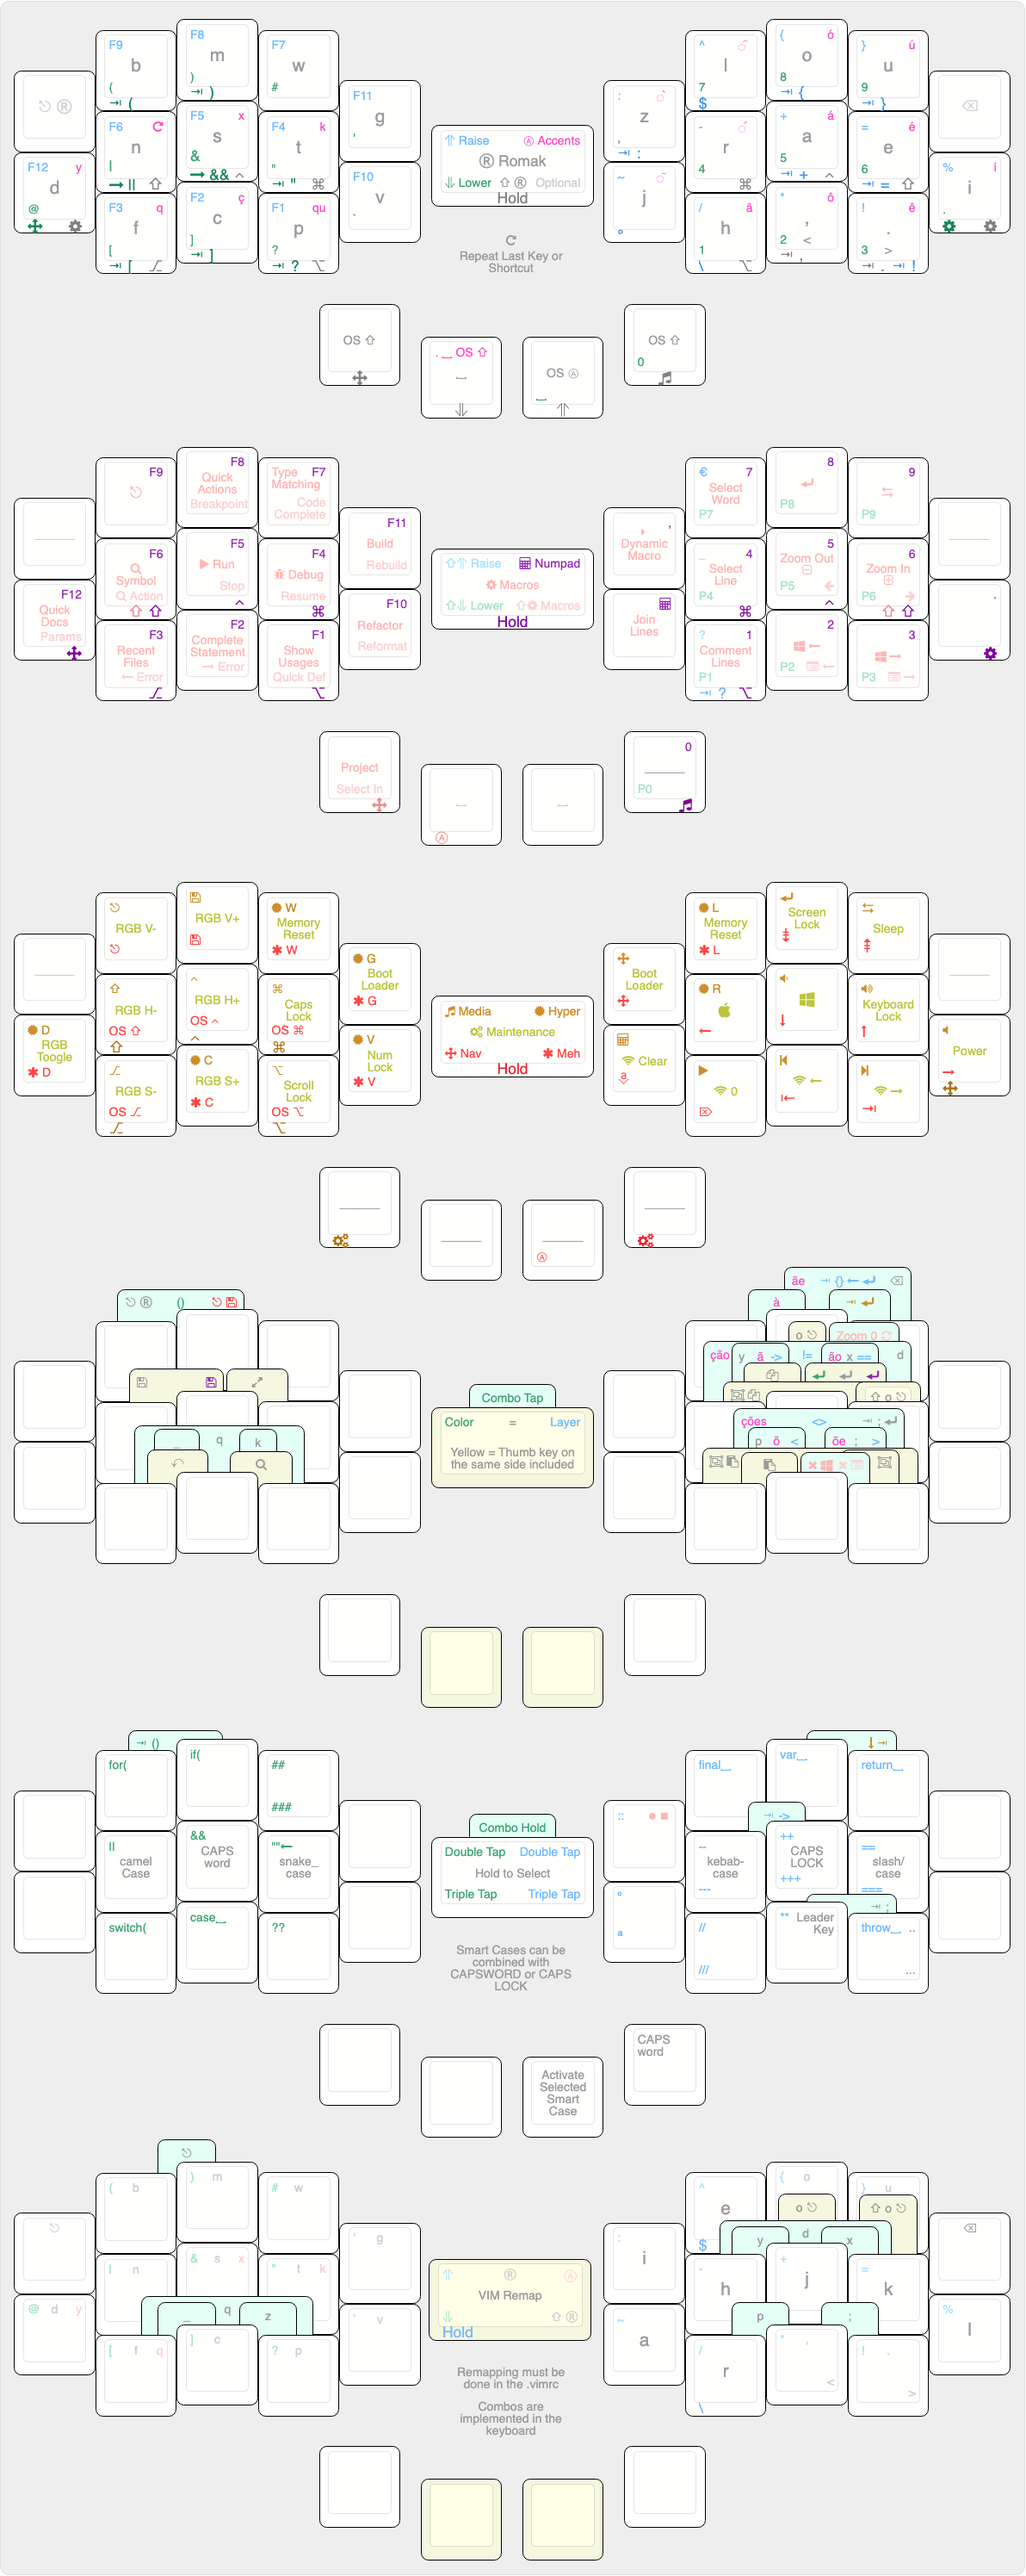
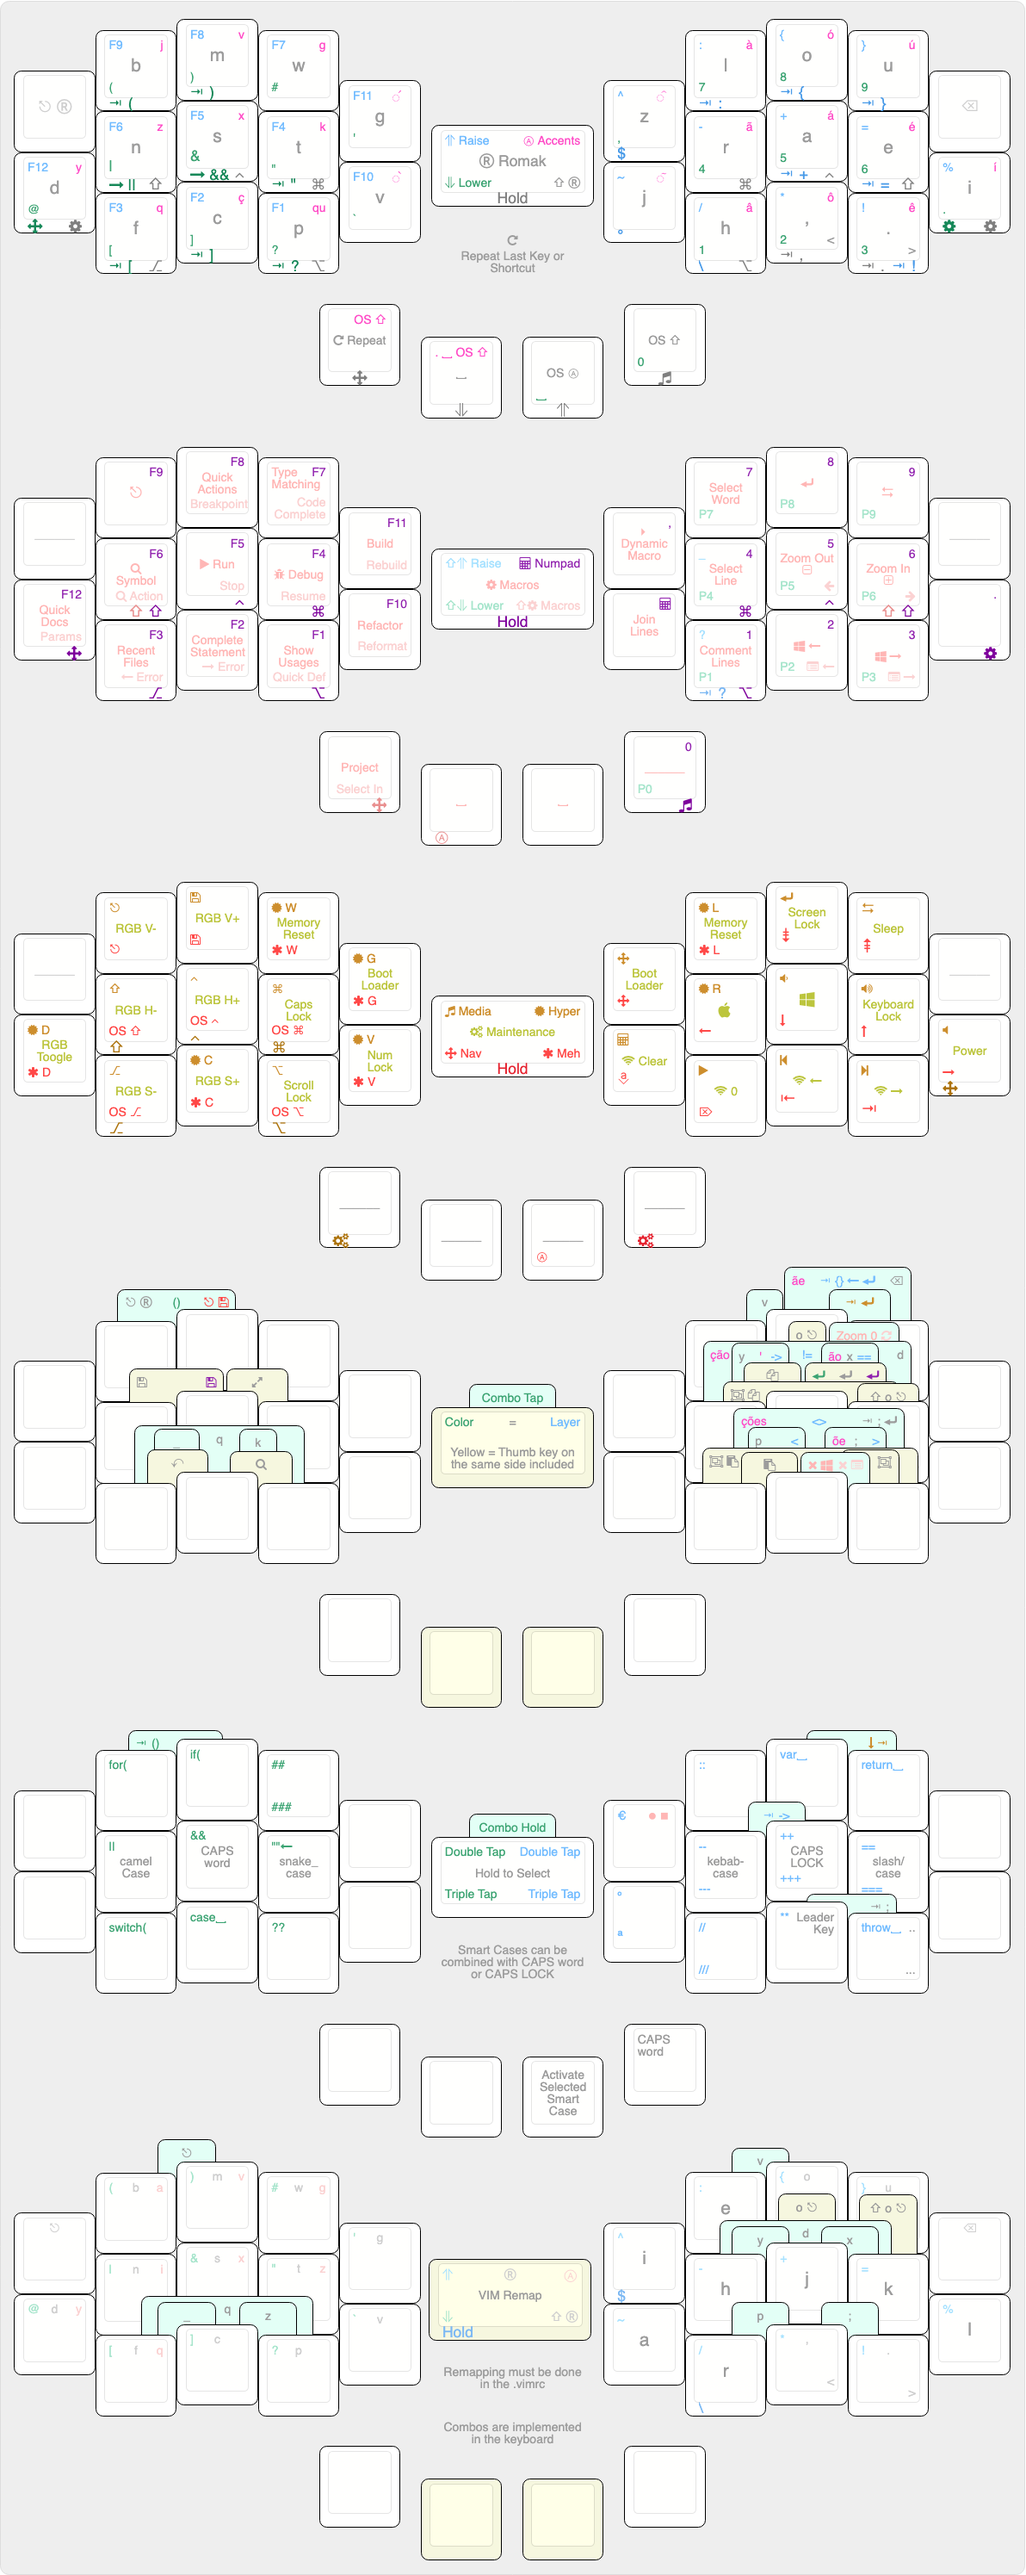
replicate central column letters in the accents layer and move repeat key to the thumb

diff --git a/src/qmk/users/rafaelromao/features/combos.c b/src/qmk/users/rafaelromao/features/combos.c
@@ -37,14 +37,12 @@ const uint16_t PROGMEM r_med_ent_combo[] = {KC_ENT, KC_TAB, COMBO_END};
 
 // Accents
 
-const uint16_t PROGMEM l_acc_esc_combo[]  = {KC_B, KC_X, COMBO_END};
-const uint16_t PROGMEM r_acc_agrv_combo[] = {KC_CIRC, MC_SQ_O, COMBO_END};
-const uint16_t PROGMEM r_acc_atil_combo[] = {KC_QUOT, MC_SQ_A, COMBO_END};
-const uint16_t PROGMEM r_acc_otil_combo[] = {MC_CR_A, MC_CR_O, COMBO_END};
+const uint16_t PROGMEM l_acc_esc_combo[]  = {KC_J, KC_V, COMBO_END};
+const uint16_t PROGMEM r_acc_squo_combo[] = {MC_TL_A, MC_SQ_A, COMBO_END};
 const uint16_t PROGMEM r_acc_ae_combo[]   = {MC_SQ_O, MC_SQ_U, COMBO_END};
 const uint16_t PROGMEM r_acc_ao_combo[]   = {MC_SQ_A, MC_SQ_E, COMBO_END};
 const uint16_t PROGMEM r_acc_oe_combo[]   = {MC_CR_O, MC_CR_E, COMBO_END};
-const uint16_t PROGMEM r_acc_cao_combo[]  = {KC_QUOT, MC_SQ_A, MC_SQ_E, COMBO_END};
+const uint16_t PROGMEM r_acc_cao_combo[]  = {MC_TL_A, MC_SQ_A, MC_SQ_E, COMBO_END};
 const uint16_t PROGMEM r_acc_coes_combo[] = {MC_CR_A, MC_CR_O, MC_CR_E, COMBO_END};
 const uint16_t PROGMEM r_acc_bsp_combo[]  = {MC_SQ_O, MC_SQ_U, COMBO_END};
 
@@ -64,6 +62,7 @@ const uint16_t PROGMEM l_rom_usc_combo[] = {RALTT_F, KC_C, COMBO_END};
 const uint16_t PROGMEM l_rom_ful_combo[] = {LOW_SPC, LCTLT_S, LGUIT_T, COMBO_END};
 const uint16_t PROGMEM l_rom_fin_combo[] = {LOW_SPC, KC_C, LALTT_P, COMBO_END};
 
+const uint16_t PROGMEM r_rom_v_combo[]   = {KC_L, KC_O, COMBO_END};
 const uint16_t PROGMEM r_rom_y_combo[]   = {RGUIT_R, RCTLT_A, COMBO_END};
 const uint16_t PROGMEM r_rom_p_combo[]   = {LALTT_H, TD_COMM, COMBO_END};
 const uint16_t PROGMEM r_rom_x_combo[]   = {RCTLT_A, RSFTT_E, COMBO_END};
@@ -85,21 +84,21 @@ const uint16_t PROGMEM r_rom_sce_combo[] = {LALTT_H, TD_COMM, TD_DOT, COMBO_END}
 const uint16_t PROGMEM secret_1_combo[] = {SEC_1, SEC_2, SEC_3, SEC_4, COMBO_END};
 
 combo_t key_combos[COMBO_COUNT] = {
-    COMBO(l_rom_q_combo, KC_Q),       COMBO(r_rom_y_combo, KC_Y),       COMBO(l_rom_k_combo, KC_K),
-    COMBO(r_rom_d_combo, KC_D),       COMBO(r_rom_x_combo, KC_X),       COMBO(l_acc_esc_combo, MC_ESCC),
-    COMBO(l_nav_esc_combo, MC_ESCC),  COMBO(l_num_esc_combo, MC_ESCC),  COMBO(l_nav_ent_combo, KC_ENT),
-    COMBO(l_nav_esv_combo, MC_ESAV),  COMBO(l_num_sav_combo, MC_SAVE),  COMBO(r_num_bsp_combo, KC_BSPC),
-    COMBO(r_low_bsp_combo, KC_BSPC),  COMBO(r_acc_bsp_combo, KC_BSPC),  COMBO(r_num_ent_combo, KC_ENT),
-    COMBO(r_acc_agrv_combo, MC_GV_A), COMBO(r_acc_atil_combo, MC_TL_A), COMBO(r_acc_otil_combo, MC_TL_O),
-    COMBO(l_low_par_combo, TD_PARN),  COMBO(r_low_ent_combo, KC_ENT),   COMBO(r_acc_ae_combo, MC_AE),
-    COMBO(r_acc_ao_combo, MC_AO),     COMBO(r_acc_cao_combo, MC_CAO),   COMBO(r_acc_oe_combo, MC_OE),
-    COMBO(r_acc_coes_combo, MC_COES), COMBO(r_mac_z0r_combo, MC_Z0R),   COMBO(r_mac_clo_combo, MC_CLOS),
-    COMBO(r_rom_cop_combo, MC_COPY),  COMBO(r_rom_scp_combo, MC_SCOP),  COMBO(r_rom_sco_combo, TD_SCLE),
-    COMBO(l_rom_usc_combo, KC_UNDS),  COMBO(l_rom_ful_combo, MC_FULL),  COMBO(r_rom_p_combo, KC_P),
-    COMBO(r_rom_pas_combo, MC_PAST),  COMBO(r_rom_spa_combo, MC_SPAS),  COMBO(l_rom_sav_combo, MC_SAVE),
-    COMBO(l_rom_esc_combo, MC_ESCC),  COMBO(l_rom_und_combo, MC_UNDO),  COMBO(r_rom_sce_combo, MC_SENT),
-    COMBO(l_rom_fin_combo, MC_FIND),  COMBO(r_rom_oes_combo, MC_OESC),  COMBO(r_rom_soe_combo, MC_SOES),
-    COMBO(r_rom_bsp_combo, KC_BSPC),  COMBO(r_rom_ent_combo, KC_ENT),   COMBO(r_rom_sal_combo, MC_SELC),
-    COMBO(r_rai_sar_combo, TD_SARR),  COMBO(r_rai_deq_combo, MC_DEQ),   COMBO(r_rai_neq_combo, MC_NEQ),
-    COMBO(r_rai_ltgt_combo, MC_LTGT), COMBO(r_rai_lt_combo, TD_LT),     COMBO(r_rai_gt_combo, TD_GT),
-    COMBO(r_rai_cur_combo, MC_CUR),   COMBO(r_med_ent_combo, TD_EENT),  COMBO(secret_1_combo, MC_SECRET_1)};
+    COMBO(l_rom_q_combo, KC_Q),      COMBO(r_rom_v_combo, KC_V),        COMBO(r_rom_y_combo, KC_Y),
+    COMBO(l_rom_k_combo, KC_K),      COMBO(r_rom_d_combo, KC_D),        COMBO(r_rom_x_combo, KC_X),
+    COMBO(l_acc_esc_combo, MC_ESCC), COMBO(l_nav_esc_combo, MC_ESCC),   COMBO(l_num_esc_combo, MC_ESCC),
+    COMBO(l_nav_ent_combo, KC_ENT),  COMBO(l_nav_esv_combo, MC_ESAV),   COMBO(l_num_sav_combo, MC_SAVE),
+    COMBO(r_num_bsp_combo, KC_BSPC), COMBO(r_low_bsp_combo, KC_BSPC),   COMBO(r_acc_bsp_combo, KC_BSPC),
+    COMBO(r_num_ent_combo, KC_ENT),  COMBO(r_acc_squo_combo, MC_SQUO),  COMBO(l_low_par_combo, TD_PARN),
+    COMBO(r_low_ent_combo, KC_ENT),  COMBO(r_acc_ae_combo, MC_AE),      COMBO(r_acc_ao_combo, MC_AO),
+    COMBO(r_acc_cao_combo, MC_CAO),  COMBO(r_acc_oe_combo, MC_OE),      COMBO(r_acc_coes_combo, MC_COES),
+    COMBO(r_mac_z0r_combo, MC_Z0R),  COMBO(r_mac_clo_combo, MC_CLOS),   COMBO(r_rom_cop_combo, MC_COPY),
+    COMBO(r_rom_scp_combo, MC_SCOP), COMBO(r_rom_sco_combo, TD_SCLE),   COMBO(l_rom_usc_combo, KC_UNDS),
+    COMBO(l_rom_ful_combo, MC_FULL), COMBO(r_rom_p_combo, KC_P),        COMBO(r_rom_pas_combo, MC_PAST),
+    COMBO(r_rom_spa_combo, MC_SPAS), COMBO(l_rom_sav_combo, MC_SAVE),   COMBO(l_rom_esc_combo, MC_ESCC),
+    COMBO(l_rom_und_combo, MC_UNDO), COMBO(r_rom_sce_combo, MC_SENT),   COMBO(l_rom_fin_combo, MC_FIND),
+    COMBO(r_rom_oes_combo, MC_OESC), COMBO(r_rom_soe_combo, MC_SOES),   COMBO(r_rom_bsp_combo, KC_BSPC),
+    COMBO(r_rom_ent_combo, KC_ENT),  COMBO(r_rom_sal_combo, MC_SELC),   COMBO(r_rai_sar_combo, TD_SARR),
+    COMBO(r_rai_deq_combo, MC_DEQ),  COMBO(r_rai_neq_combo, MC_NEQ),    COMBO(r_rai_ltgt_combo, MC_LTGT),
+    COMBO(r_rai_lt_combo, TD_LT),    COMBO(r_rai_gt_combo, TD_GT),      COMBO(r_rai_cur_combo, MC_CUR),
+    COMBO(r_med_ent_combo, TD_EENT), COMBO(secret_1_combo, MC_SECRET_1)};

diff --git a/src/qmk/users/rafaelromao/definitions/keymap_blocks.h b/src/qmk/users/rafaelromao/definitions/keymap_blocks.h
@@ -8,7 +8,7 @@
 #define ___________________ROMAK_L1__________           MC_ESCC , KC_B    , KC_M    , KC_W    
 #define ___________________ROMAK_L2____________________ MAC_KCD , LSFTT_N , LCTLT_S , LGUIT_T , KC_G
 #define           _________ROMAK_L3____________________           RALTT_F , KC_C    , LALTT_P , KC_V
-#define                               ____ROMAK_L4_____                               NAV_CAS , LOW_SPC
+#define                               ____ROMAK_L4_____                               NAV_REP , LOW_SPC
 
 #define           _________ROMAK_R1____________________           KC_L    , KC_O    , KC_U    , KC_BSPC
 #define ___________________ROMAK_R2____________________ KC_Z    , RGUIT_R , RCTLT_A , RSFTT_E , MAC_KCI
@@ -18,7 +18,7 @@
 #define ___________________NUMPAD_L1_________           _______ , KC_F9   , KC_F8   , KC_F7   
 #define ___________________NUMPAD_L2___________________ NAV_F12 , SF_F6   , CT_F5   , GU_F4   , KC_F11
 #define           _________NUMPAD_L3___________________           AL_F3   , KC_F2   , AL_F1   , KC_F10
-#define                               ____NUMPAD_L4____                               NAV_CAS , KC_SPC
+#define                               ____NUMPAD_L4____                               _______ , KC_SPC
 
 #define           _________NUMPAD_R1___________________           KC_7    , KC_8    , KC_9    , _______
 #define ___________________NUMPAD_R2___________________ KC_COMM , GU_4    , CT_5    , SF_6    , MAC_DOT
@@ -35,14 +35,14 @@
 #define ___________________MACROS_R3_________           MC_JOIN , MC_COMT , MC_SWLE , MC_SWRI 
 #define ____MACROS_R4____                               KC_SPC  , _______
 
-#define ___________________ACCENT_L1_________           _______ , _______ , _______ , _______
-#define ___________________ACCENT_L2___________________ KC_Y    , REPEAT  , KC_X    , KC_K    , _______
-#define           _________ACCENT_L3___________________           KC_Q    , MC_SQ_C , MC_QU   , _______ 
-#define                               ____ACCENT_L4____                               _______ , MC_NSEN
-#define                               ____FIXED_ACC_L4_                               _______ , LOW_SPC
+#define ___________________ACCENT_L1_________           _______ , KC_J    , KC_V    , KC_G
+#define ___________________ACCENT_L2___________________ KC_Y    , KC_Z    , KC_X    , KC_K    , KC_QUOT
+#define           _________ACCENT_L3___________________           KC_Q    , MC_SQ_C , MC_QU   , KC_GRV 
+#define                               ____ACCENT_L4____                               OS_LSFT , MC_NSEN
+#define                               ____FIXED_ACC_L4_                               OS_LSFT , KC_SPC
 
-#define           _________ACCENT_R1___________________           KC_CIRC , MC_SQ_O , MC_SQ_U , _______
-#define ___________________ACCENT_R2___________________ KC_GRV  , KC_QUOT , MC_SQ_A , MC_SQ_E , MC_SQ_I
+#define           _________ACCENT_R1___________________           MC_GV_A , MC_SQ_O , MC_SQ_U , _______
+#define ___________________ACCENT_R2___________________ KC_CIRC , MC_TL_A , MC_SQ_A , MC_SQ_E , MC_SQ_I
 #define ___________________ACCENT_R3_________           KC_TILD , MC_CR_A , MC_CR_O , MC_CR_E 
 #define ____ACCENT_R4____                               RAI_ACT , _______
 #define ____FIXED_ACC_R4_                               RAI_TAC , _______
@@ -60,10 +60,10 @@
 #define ___________________RAISE_L1__________           _______ , KC_F9   , KC_F8   , KC_F7   
 #define ___________________RAISE_L2____________________ KC_F12  , KC_F6   , KC_F5   , KC_F4   , KC_F11
 #define           _________RAISE_L3____________________           KC_F3   , KC_F2   , KC_F1   , KC_F10
-#define                               ____RAISE_L4_____                               _______ , KC_SPC
+#define                               ____RAISE_L4_____                               REPEAT  , KC_SPC
 
-#define           _________RAISE_R1____________________           TD_DLR  , TD_LCRB , TD_RCRB , _______
-#define ___________________RAISE_R2____________________ TD_COLN , KC_MINS , TD_PLUS , TD_EQL  , KC_PERC
+#define           _________RAISE_R1____________________           TD_COLN , TD_LCRB , TD_RCRB , _______
+#define ___________________RAISE_R2____________________ TD_DLR  , KC_MINS , TD_PLUS , TD_EQL  , KC_PERC
 #define ___________________RAISE_R3__________           TD_TILD , TD_SLSH , KC_ASTR , TD_NOT   
 #define ____RAISE_R4_____                               _______ , _______
 

diff --git a/src/qmk/users/rafaelromao/features/repeat.c b/src/qmk/users/rafaelromao/features/repeat.c
@@ -11,44 +11,77 @@ static uint8_t  last_modifier = 0;
 
 process_record_result_t process_repeat_key(uint16_t keycode, const keyrecord_t *record) {
 #ifndef SAVE_MEMORY
-    if (keycode != REPEAT) {
-        uint16_t mod_state         = get_mods();
-        uint16_t oneshot_mod_state = get_oneshot_mods();
-        // Early return when holding down a pure layer key
-        // to retain modifiers
-        switch (keycode) {
-            case QK_DEF_LAYER ... QK_DEF_LAYER_MAX:
-            case QK_MOMENTARY ... QK_MOMENTARY_MAX:
-            case QK_LAYER_MOD ... QK_LAYER_MOD_MAX:
-            case QK_ONE_SHOT_LAYER ... QK_ONE_SHOT_LAYER_MAX:
-            case QK_TOGGLE_LAYER ... QK_TOGGLE_LAYER_MAX:
-            case QK_TO ... QK_TO_MAX:
-            case QK_LAYER_TAP_TOGGLE ... QK_LAYER_TAP_TOGGLE_MAX:
-                return PROCESS_RECORD_CONTINUE;
-        }
-        last_modifier = oneshot_mod_state | mod_state;
-        switch (keycode) {
-            case QK_LAYER_TAP ... QK_LAYER_TAP_MAX:
-            case QK_MOD_TAP ... QK_MOD_TAP_MAX:
+    switch (keycode) {
+        case REPEAT:
+            if (record->event.pressed) {
+                register_mods(last_modifier);
+                register_code16(last_keycode);
+            } else {
+                unregister_code16(last_keycode);
+                unregister_mods(last_modifier);
+            }
+            return PROCESS_RECORD_RETURN_FALSE;
+        case NAV_REP:
+            if (record->tap.count > 0) {
                 if (record->event.pressed) {
-                    last_keycode = extract_base_tapping_keycode(keycode);
+                    register_mods(last_modifier);
+                    tap_code16(last_keycode);
+                    unregister_mods(last_modifier);
+                    return PROCESS_RECORD_RETURN_FALSE;
                 }
-                break;
-            default:
+            }
+            return PROCESS_RECORD_CONTINUE;
+        default:
+            if (keycode != REPEAT) {
+                uint16_t mod_state         = get_mods();
+                uint16_t oneshot_mod_state = get_oneshot_mods();
+                // Early return when holding down a pure layer key
+                // to retain modifiers
+                switch (keycode) {
+                    case QK_DEF_LAYER ... QK_DEF_LAYER_MAX:
+                    case QK_MOMENTARY ... QK_MOMENTARY_MAX:
+                    case QK_LAYER_MOD ... QK_LAYER_MOD_MAX:
+                    case QK_ONE_SHOT_LAYER ... QK_ONE_SHOT_LAYER_MAX:
+                    case QK_TOGGLE_LAYER ... QK_TOGGLE_LAYER_MAX:
+                    case QK_TO ... QK_TO_MAX:
+                    case QK_LAYER_TAP_TOGGLE ... QK_LAYER_TAP_TOGGLE_MAX:
+                        return PROCESS_RECORD_CONTINUE;
+                }
+                last_modifier = oneshot_mod_state | mod_state;
+                switch (keycode) {
+                    case QK_LAYER_TAP ... QK_LAYER_TAP_MAX:
+                    case QK_MOD_TAP ... QK_MOD_TAP_MAX:
+                        if (record->event.pressed) {
+                            last_keycode = extract_base_tapping_keycode(keycode);
+                        }
+                        break;
+                    default:
+                        if (record->event.pressed) {
+                            last_keycode = keycode;
+                        }
+                        break;
+                }
+            }
+            return PROCESS_RECORD_CONTINUE;
+    }
+#else
+    switch (keycode) {
+        case REPEAT:
+            if (record->event.pressed) {
+                register_code(KC_SPC);
+            } else {
+                unregister_code(KC_SPC);
+            }
+            return PROCESS_RECORD_RETURN_FALSE;
+        case NAV_REP:
+            if (record->tap.count > 0) {
                 if (record->event.pressed) {
-                    last_keycode = keycode;
+                    tap_code(KC_SPC);
+                    return PROCESS_RECORD_RETURN_FALSE;
                 }
-                break;
-        }
-    } else { // keycode == REPEAT
-        if (record->event.pressed) {
-            register_mods(last_modifier);
-            register_code16(last_keycode);
-        } else {
-            unregister_code16(last_keycode);
-            unregister_mods(last_modifier);
-        }
+            }
+        default:
+            return PROCESS_RECORD_CONTINUE;
     }
 #endif
-    return PROCESS_RECORD_CONTINUE;
 }

diff --git a/src/qmk/users/rafaelromao/features/custom_shift.c b/src/qmk/users/rafaelromao/features/custom_shift.c
@@ -9,22 +9,6 @@ process_record_result_t process_custom_shift(uint16_t keycode, keyrecord_t *reco
     bool isOneShotShift       = isOneShotLockedShift || get_oneshot_mods() & MOD_MASK_SHIFT;
     bool isShifted            = isOneShotShift || get_mods() & MOD_MASK_SHIFT;
 
-    switch (keycode) {
-            // Euro sign
-
-        case TD_DLR:
-            if (isShifted) {
-                if (is_macos()) {
-                    tap_code16(LSFT(RALT(KC_2)));
-                } else {
-                    clear_shift();
-                    tap_code16(LCTL(LALT(KC_5)));
-                }
-                return PROCESS_RECORD_RETURN_FALSE;
-            }
-            return PROCESS_RECORD_CONTINUE;
-    }
-
     uint16_t key = extract_base_tapping_keycode(keycode);
 
     switch (key) {

diff --git a/src/qmk/users/rafaelromao/features/custom_oneshot.c b/src/qmk/users/rafaelromao/features/custom_oneshot.c
@@ -72,9 +72,10 @@ void check_disable_oneshot(uint16_t keycode) {
         case KC_SPC:
         case RAI_ACT:
         case RAI_TAC:
+        case ACT_SPC:
         case LOW_SPC:
         case MED_CAS:
-        case NAV_CAS:
+        case NAV_REP:
         case MAI_CAS:
         case OS_LSFT:
         case OS_LCTL:
@@ -137,7 +138,6 @@ process_record_result_t process_custom_oneshot(uint16_t keycode, keyrecord_t *re
             }
 
         case MED_CAS:
-        case NAV_CAS:
         case MAI_CAS:
             if (record->tap.count > 0) {
                 if (record->event.pressed) {

diff --git a/src/qmk/users/rafaelromao/features/tapdance.c b/src/qmk/users/rafaelromao/features/tapdance.c
@@ -116,7 +116,12 @@ void td_currencies(tap_dance_state_t *state, void *user_data) {
             tap_code(KC_SPC);
             break;
         case TD_DOUBLE_TAP:
-            SEND_STRING("final ");
+            if (is_macos()) {
+                tap_code16(LSFT(RALT(KC_2)));
+            } else {
+                clear_shift();
+                tap_code16(LCTL(LALT(KC_5)));
+            }
             break;
         case TD_SINGLE_HOLD:
             tap_code16(KC_DLR);

diff --git a/src/qmk/users/rafaelromao/features/smart_case.c b/src/qmk/users/rafaelromao/features/smart_case.c
@@ -180,6 +180,7 @@ process_record_result_t process_smart_case(uint16_t keycode, keyrecord_t *record
             case KC_HOME:
             case KC_END:
             case MAI_CAS:
+            case RAI_ACT:
             case MED_CAS:
                 start_smart_case_timer();
                 break;

diff --git a/src/qmk/users/rafaelromao/features/taphold.c b/src/qmk/users/rafaelromao/features/taphold.c
@@ -7,7 +7,7 @@ uint16_t get_quick_tap_term(uint16_t keycode, keyrecord_t *record) {
         case LOW_SPC:
         case RAI_SPC:
         case RAI_ACT:
-        case NAV_CAS:
+        case NAV_REP:
         case NAV_PRJ:
         case MED_CAS:
         case RAI_TAC:

diff --git a/src/qmk/users/rafaelromao/definitions/keycodes.h b/src/qmk/users/rafaelromao/definitions/keycodes.h
@@ -154,7 +154,7 @@ enum {
 
 // Layer-taps
 
-#define NAV_CAS LT(_NAVIGATION, TG_CASE)
+#define NAV_REP LT(_NAVIGATION, REPEAT)
 #define NAV_F12 LT(_NAVIGATION, KC_F12)
 #define NAV_AT  LT(_NAVIGATION, KC_AT)
 #define NAV_PRJ LT(_NAVIGATION, MC_PROJ)

diff --git a/src/qmk/users/rafaelromao/config.h b/src/qmk/users/rafaelromao/config.h
@@ -23,7 +23,7 @@
 #define LEADER_NO_TIMEOUT
 
 // Configure combos
-#define COMBO_COUNT 54
+#define COMBO_COUNT 53
 #define COMBO_TERM 30
 #define EXTRA_SHORT_COMBOS
 #define COMBO_STRICT_TIMER
